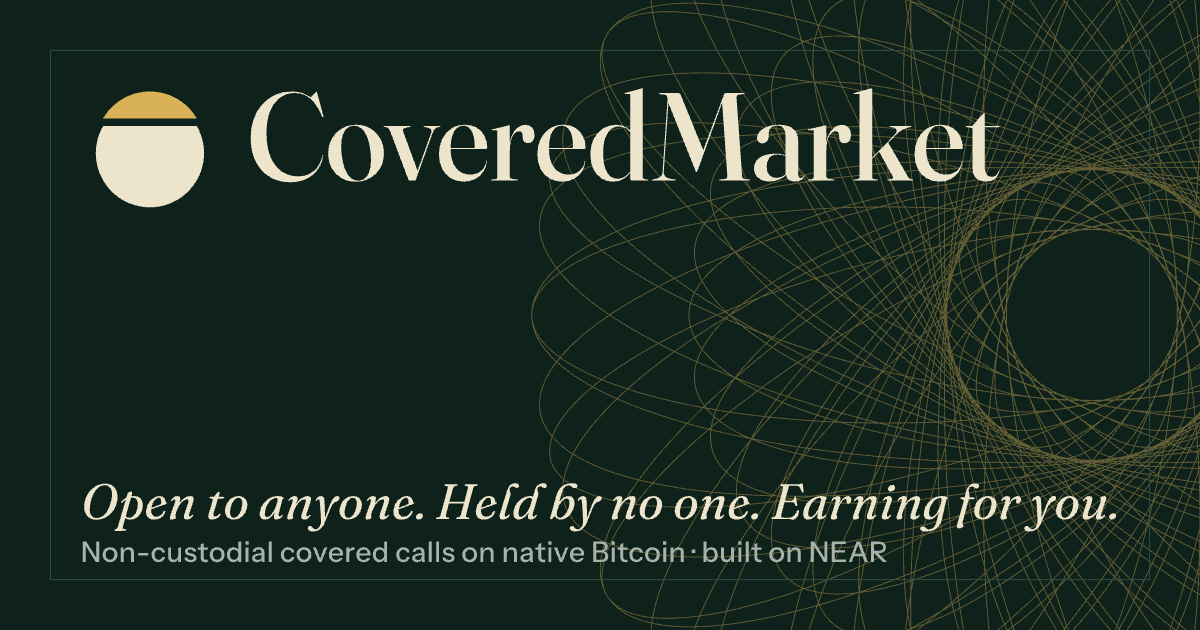
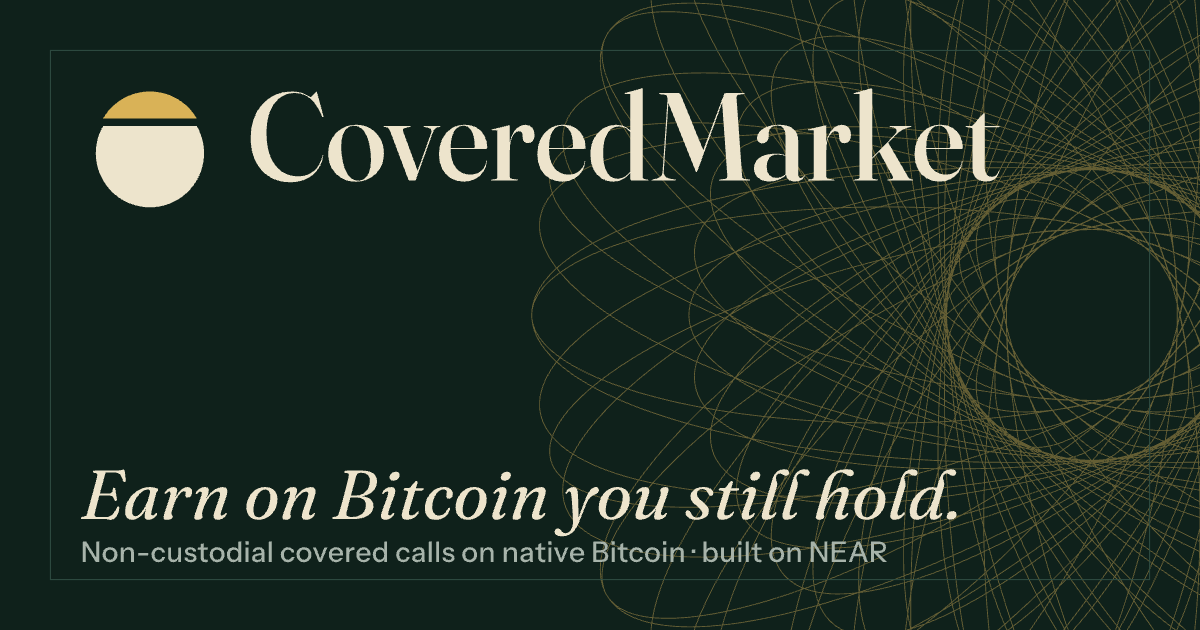
Landing: brand line "Earn on Bitcoin you still hold."
Matches #23. The hero, film title, footer, page title, og:title and
og.png use the new line; the hero sets it on two lines with the second
in intaglio, as the old line's last phrase was.

Changed region(s): [[0.0617, 0.7238, 0.925, 0.8444]]

diff --git a/web/src/pages/Landing.tsx b/web/src/pages/Landing.tsx
@@ -175,7 +175,7 @@ export function Landing() {
   const { isTest, live, testnetSite, app } = net();
   const cert = useHeroCert();
   const [menu, setMenu] = useState(false);
-  useEffect(() => { document.title = "CoveredMarket — open to anyone, held by no one, earning for you"; const id = location.hash.slice(1); if (id && !id.startsWith("/")) setTimeout(() => document.getElementById(id)?.scrollIntoView(), 50); }, []);
+  useEffect(() => { document.title = "CoveredMarket — earn on Bitcoin you still hold"; const id = location.hash.slice(1); if (id && !id.startsWith("/")) setTimeout(() => document.getElementById(id)?.scrollIntoView(), 50); }, []);
   const nav: [string, string][] = [["how", "How it works"], ["returns", "Returns"], ["compare", "Compare"], ["trust", "Security"], ["stack", "Built with"], ["faq", "FAQ"]];
   const sellLabel = !live ? "Try it on testnet" : isTest ? "Sell a call on testnet" : "Sell a call";
   return (
@@ -210,7 +210,7 @@ export function Landing() {
           <div className="ld-wrap ld-hero-grid">
             <div className="ld-stack" style={{ minWidth: 0 }}>
               <p className="ld-kicker" style={{ margin: 0 }}>Covered calls on native Bitcoin</p>
-              <h1 id="hero-h" className="ld-h1"><span>Open to anyone.</span><span>Held by no one.</span><span style={{ color: "var(--intaglio)" }}>Earning for you.</span></h1>
+              <h1 id="hero-h" className="ld-h1"><span>Earn on Bitcoin</span><span style={{ color: "var(--intaglio)" }}>you still hold.</span></h1>
               <p className="ld-lede" style={{ maxWidth: "38ch" }}>Sell covered calls on coins that never leave Bitcoin. Only a NEAR contract can sign for them, and the premium is yours whatever happens.</p>
               <div className="ld-row">
                 <a className="ld-btn ld-btn--primary" href={app("sell")}>{sellLabel}</a>
@@ -234,7 +234,7 @@ export function Landing() {
             <div className="ld-film" data-theme="vault">
               <img className="ld-rosette" src="/site/rosette-gilt-on-vault.svg" alt="" aria-hidden="true" />
               <img className="ld-film-logo" src="/site/lockup-on-vault.svg" alt="" aria-hidden="true" />
-              <div className="ld-film-text"><span className="ld-film-title">Open to anyone. Held by no one. Earning for you.</span><span className="ld-soon">Film coming soon</span></div>
+              <div className="ld-film-text"><span className="ld-film-title">Earn on Bitcoin you still hold.</span><span className="ld-soon">Film coming soon</span></div>
             </div>
             <p className="body-small ld-muted" style={{ margin: "12px 0 0" }}>Astrid sells a call on her Bitcoin, Marcus buys it, and the contract settles on Bitcoin. Until the film is out, <a href={app("try")}>try it yourself in six minutes</a>.</p>
           </div>
@@ -494,7 +494,7 @@ export function Landing() {
       <footer className="ld-foot">
         <div className="ld-wrap ld-stack" style={{ gap: 32 }}>
           <div className="ld-foot-grid">
-            <div className="ld-stack" style={{ gap: 12 }}><img src="/site/lockup.svg" alt="CoveredMarket" style={{ height: 32, alignSelf: "flex-start" }} /><p className="ld-lede" style={{ fontSize: 18 }}>Open to anyone. Held by no one. Earning for you.</p></div>
+            <div className="ld-stack" style={{ gap: 12 }}><img src="/site/lockup.svg" alt="CoveredMarket" style={{ height: 32, alignSelf: "flex-start" }} /><p className="ld-lede" style={{ fontSize: 18 }}>Earn on Bitcoin you still hold.</p></div>
             <nav aria-label="Product"><span className="ld-label ld-muted">Product</span><a href={app("market")}>Market</a><a href={app("sell")}>Sell a call</a><a href={`${testnetSite}#/try`}>Try it</a><A to="faq">FAQ</A></nav>
             <nav aria-label="Trust"><span className="ld-label ld-muted">Trust</span><A to="trust">Security</A><A to="security">Report a vulnerability</A><A to="compare">Compared</A></nav>
             <nav aria-label="Build"><span className="ld-label ld-muted">Build</span><A to="stack">Built with</A>{live && <a href={`${CFG.explorerNear}/address/${CFG.contract}`} target="_blank" rel="noreferrer">Contract</a>}<a href={`mailto:${SECURITY}`}>{SECURITY}</a></nav>

diff --git a/web/index.html b/web/index.html
@@ -3,10 +3,10 @@
 <head>
 <meta charset="utf-8">
 <meta name="viewport" content="width=device-width, initial-scale=1">
-<title>CoveredMarket — open to anyone, held by no one, earning for you</title>
+<title>CoveredMarket — earn on Bitcoin you still hold</title>
 <link rel="icon" href="/favicon.svg">
 <meta name="description" content="CoveredMarket: sell covered calls on native Bitcoin. Your coins stay at a Bitcoin address only a NEAR contract can sign for, and the premium is yours whatever happens.">
-<meta property="og:title" content="CoveredMarket — Open to anyone. Held by no one. Earning for you.">
+<meta property="og:title" content="CoveredMarket — Earn on Bitcoin you still hold.">
 <meta property="og:description" content="Covered calls on native Bitcoin. No exchange, no custodian. Built on NEAR Chain Signatures.">
 <meta property="og:image" content="/site/og.png">
 <meta property="og:type" content="website">
